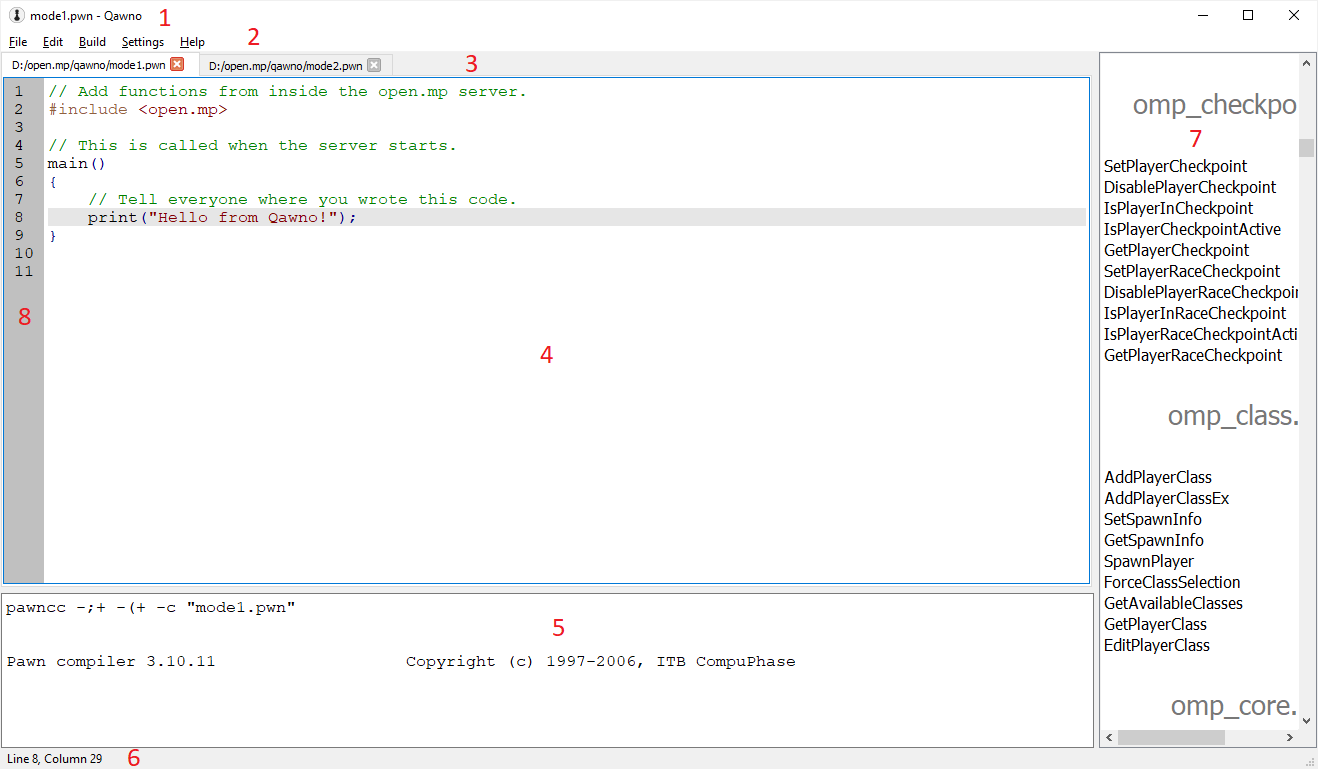
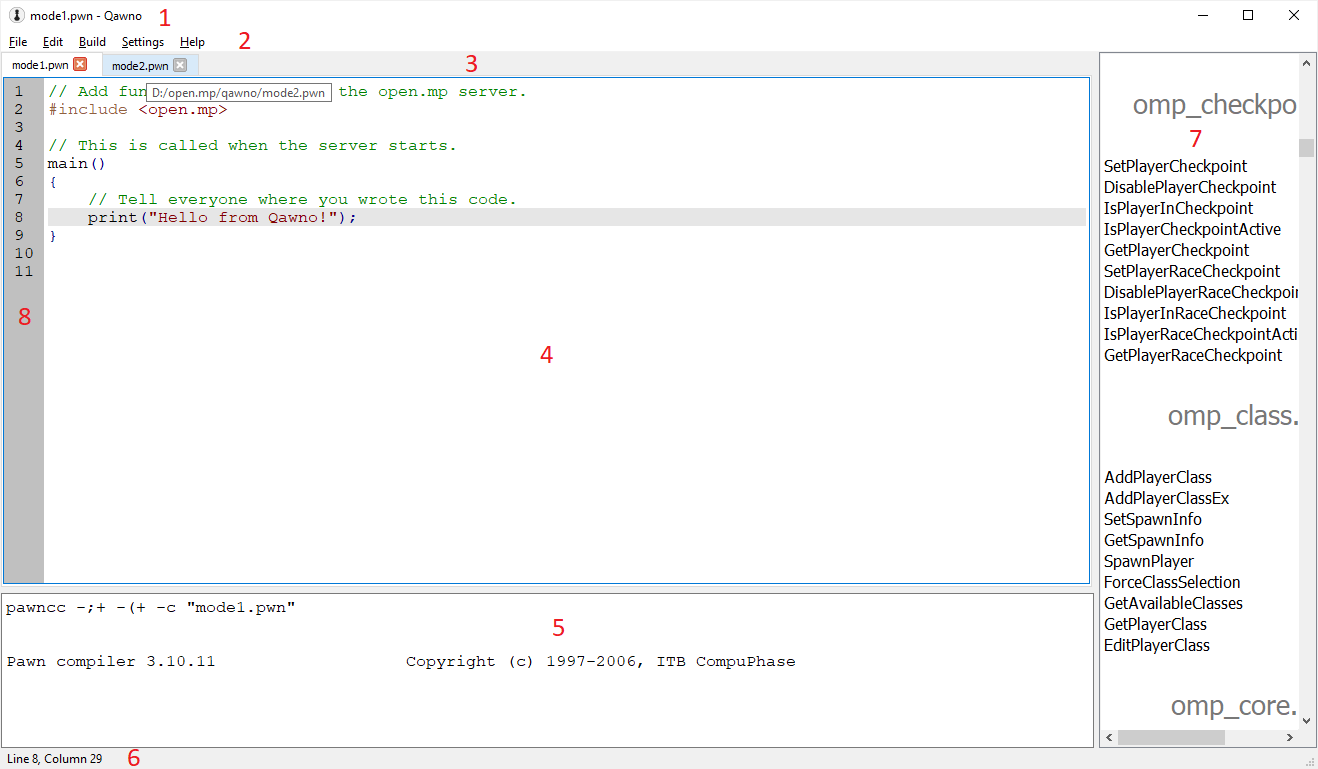
Show the full path in tab tooltips.

Changed region(s): [[0.0, 0.0312, 0.3111, 0.1248]]

diff --git a/src/MainWindow.cpp b/src/MainWindow.cpp
@@ -1870,7 +1870,8 @@ bool MainWindow::loadFile(const QString &fileName) {
   }
 
   fileNames_.push_back(nu ? "" : fileName);
-  createTab(nu ? QString("New %1").arg(++newCount_) : QFileInfo(fileName).fileName());
+  QString path = nu ? QString("New %1").arg(++newCount_) : fileName;
+  createTab(nu ? path : file.fileName(), path);
   editors_.last()->setPlainText(file.readAll());
   parseFile(editors_.last()->toPlainText(), true);
   setFileModified(false);
@@ -1902,7 +1903,7 @@ bool MainWindow::isFileEmpty() const {
     || (isNewFile() && !document->toPlainText().contains(QRegExp("\\S")));
 }
 
-void MainWindow::createTab(const QString& fileName) {
+void MainWindow::createTab(const QString& title, const QString& tooltip) {
   mru_.push(ui_->tabWidget->count());
   QWidget* tab = new QWidget();
   QHBoxLayout* horizontalLayout = new QHBoxLayout(tab);
@@ -1918,7 +1919,8 @@ void MainWindow::createTab(const QString& fileName) {
   editor->setAcceptDrops(false);
   horizontalLayout->addWidget(editor);
   ui_->tabWidget->addTab(tab, QString());
-  ui_->tabWidget->setTabText(ui_->tabWidget->indexOf(tab), fileName);
+  ui_->tabWidget->setTabText(ui_->tabWidget->indexOf(tab), title);
+  ui_->tabWidget->setTabToolTip(ui_->tabWidget->indexOf(tab), tooltip);
   bool useDarkMode = ui_->actionDarkMode->isChecked();
   editor->toggleDarkMode(useDarkMode);
   editors_.push_back(editor);

diff --git a/src/MainWindow.h b/src/MainWindow.h
@@ -121,7 +121,7 @@ class MainWindow: public QMainWindow {
   QVector<EditorWidget*> editors_;
   Server server_;
 
-  void createTab(const QString& title);
+  void createTab(const QString& title, const QString& tooltip);
 
  private:
   struct suggestions_s {
